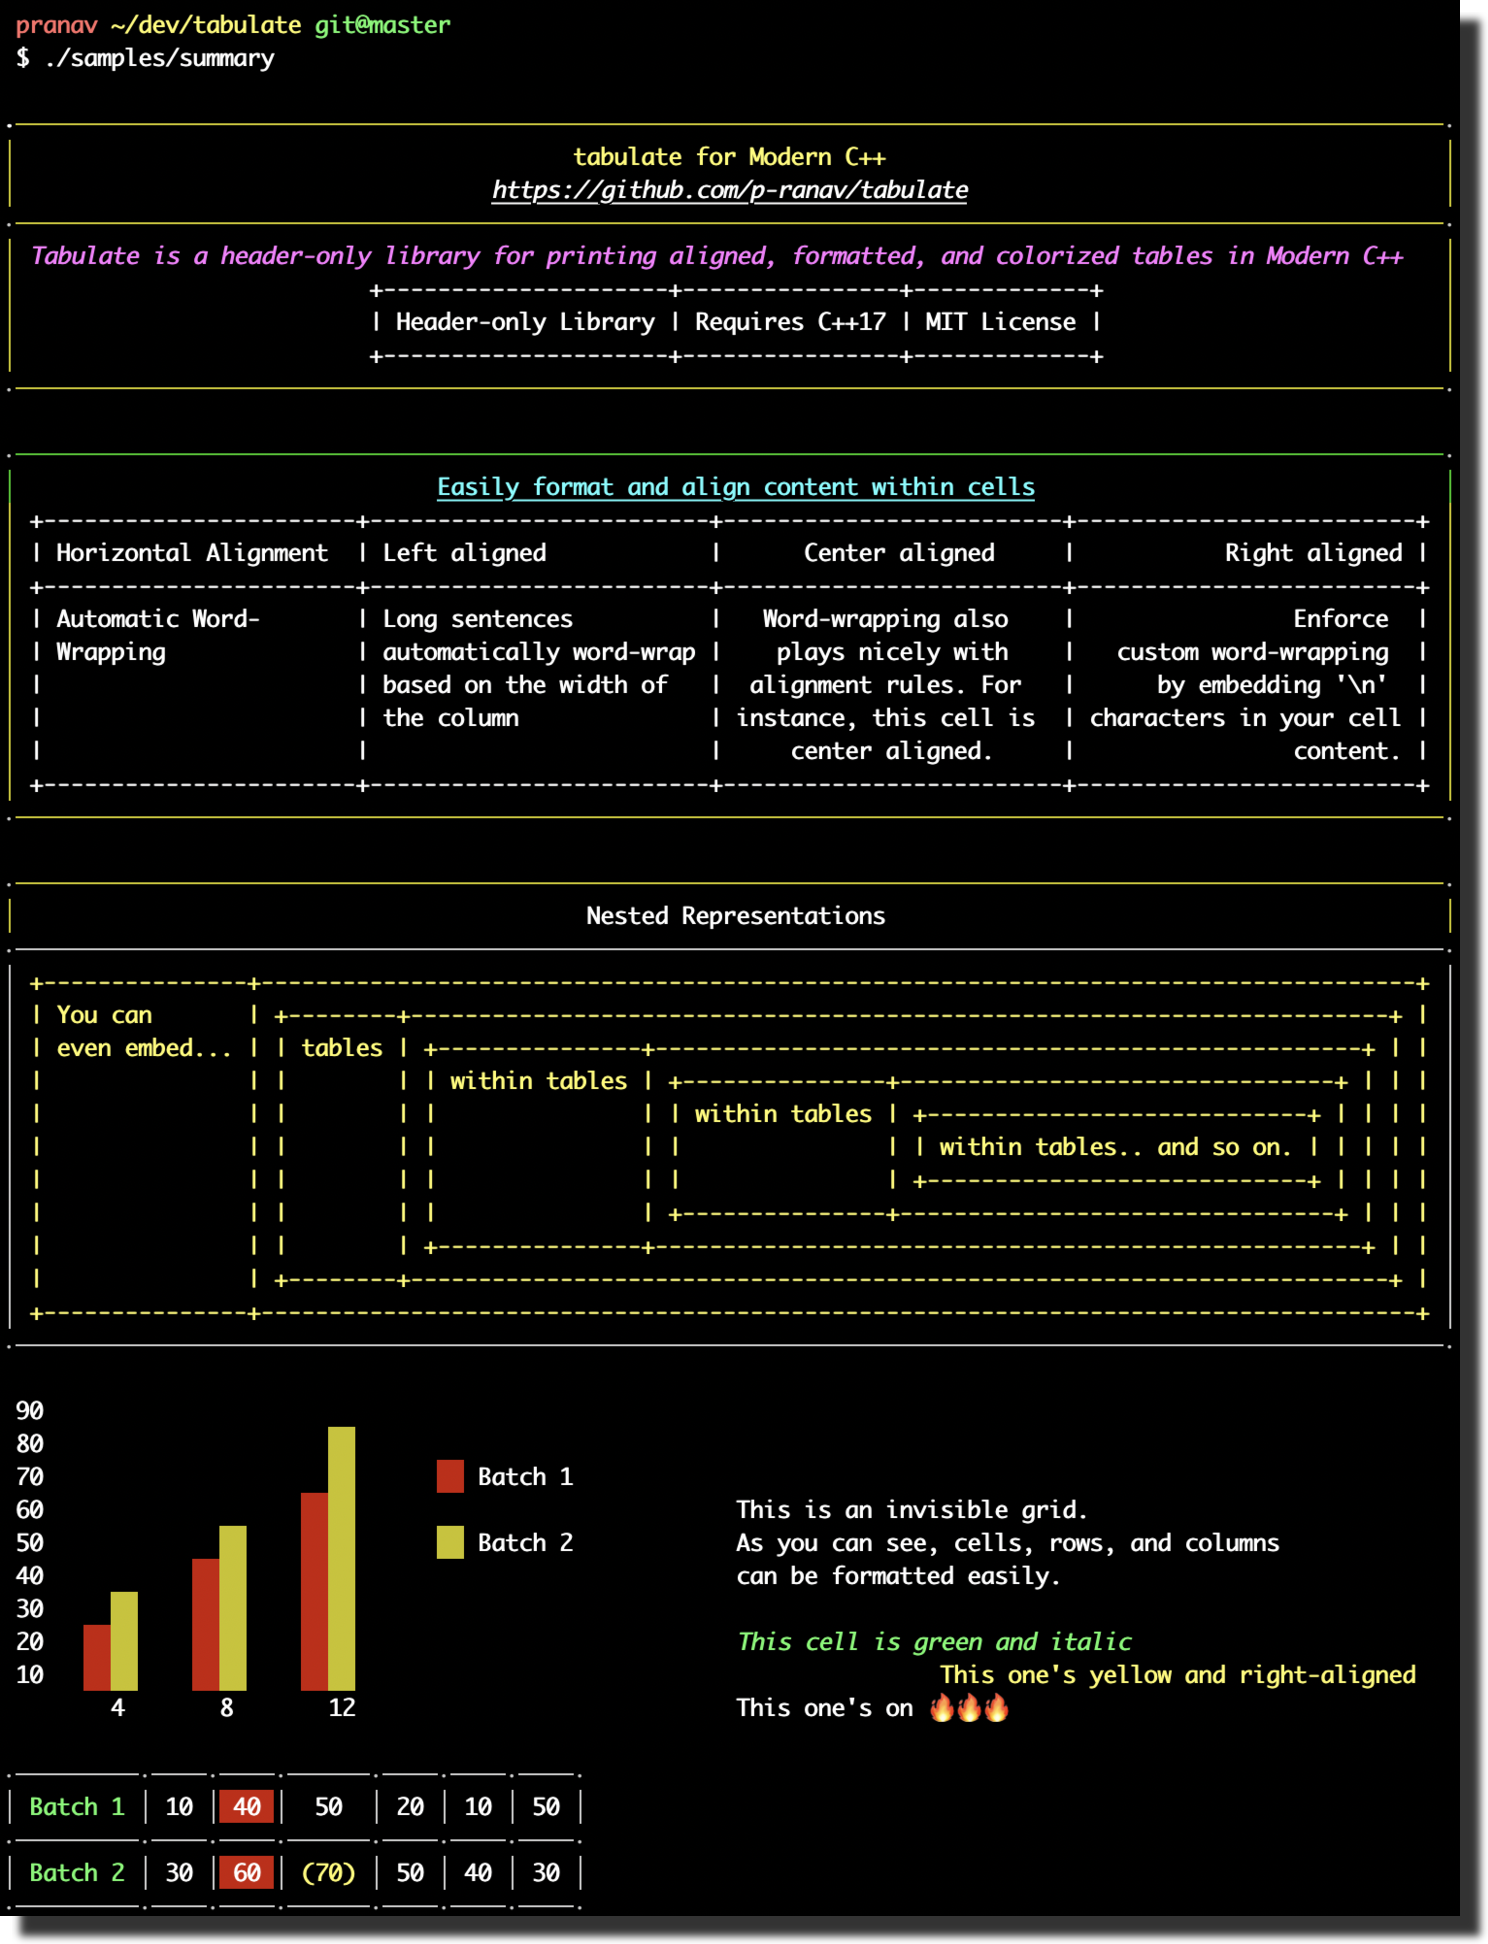
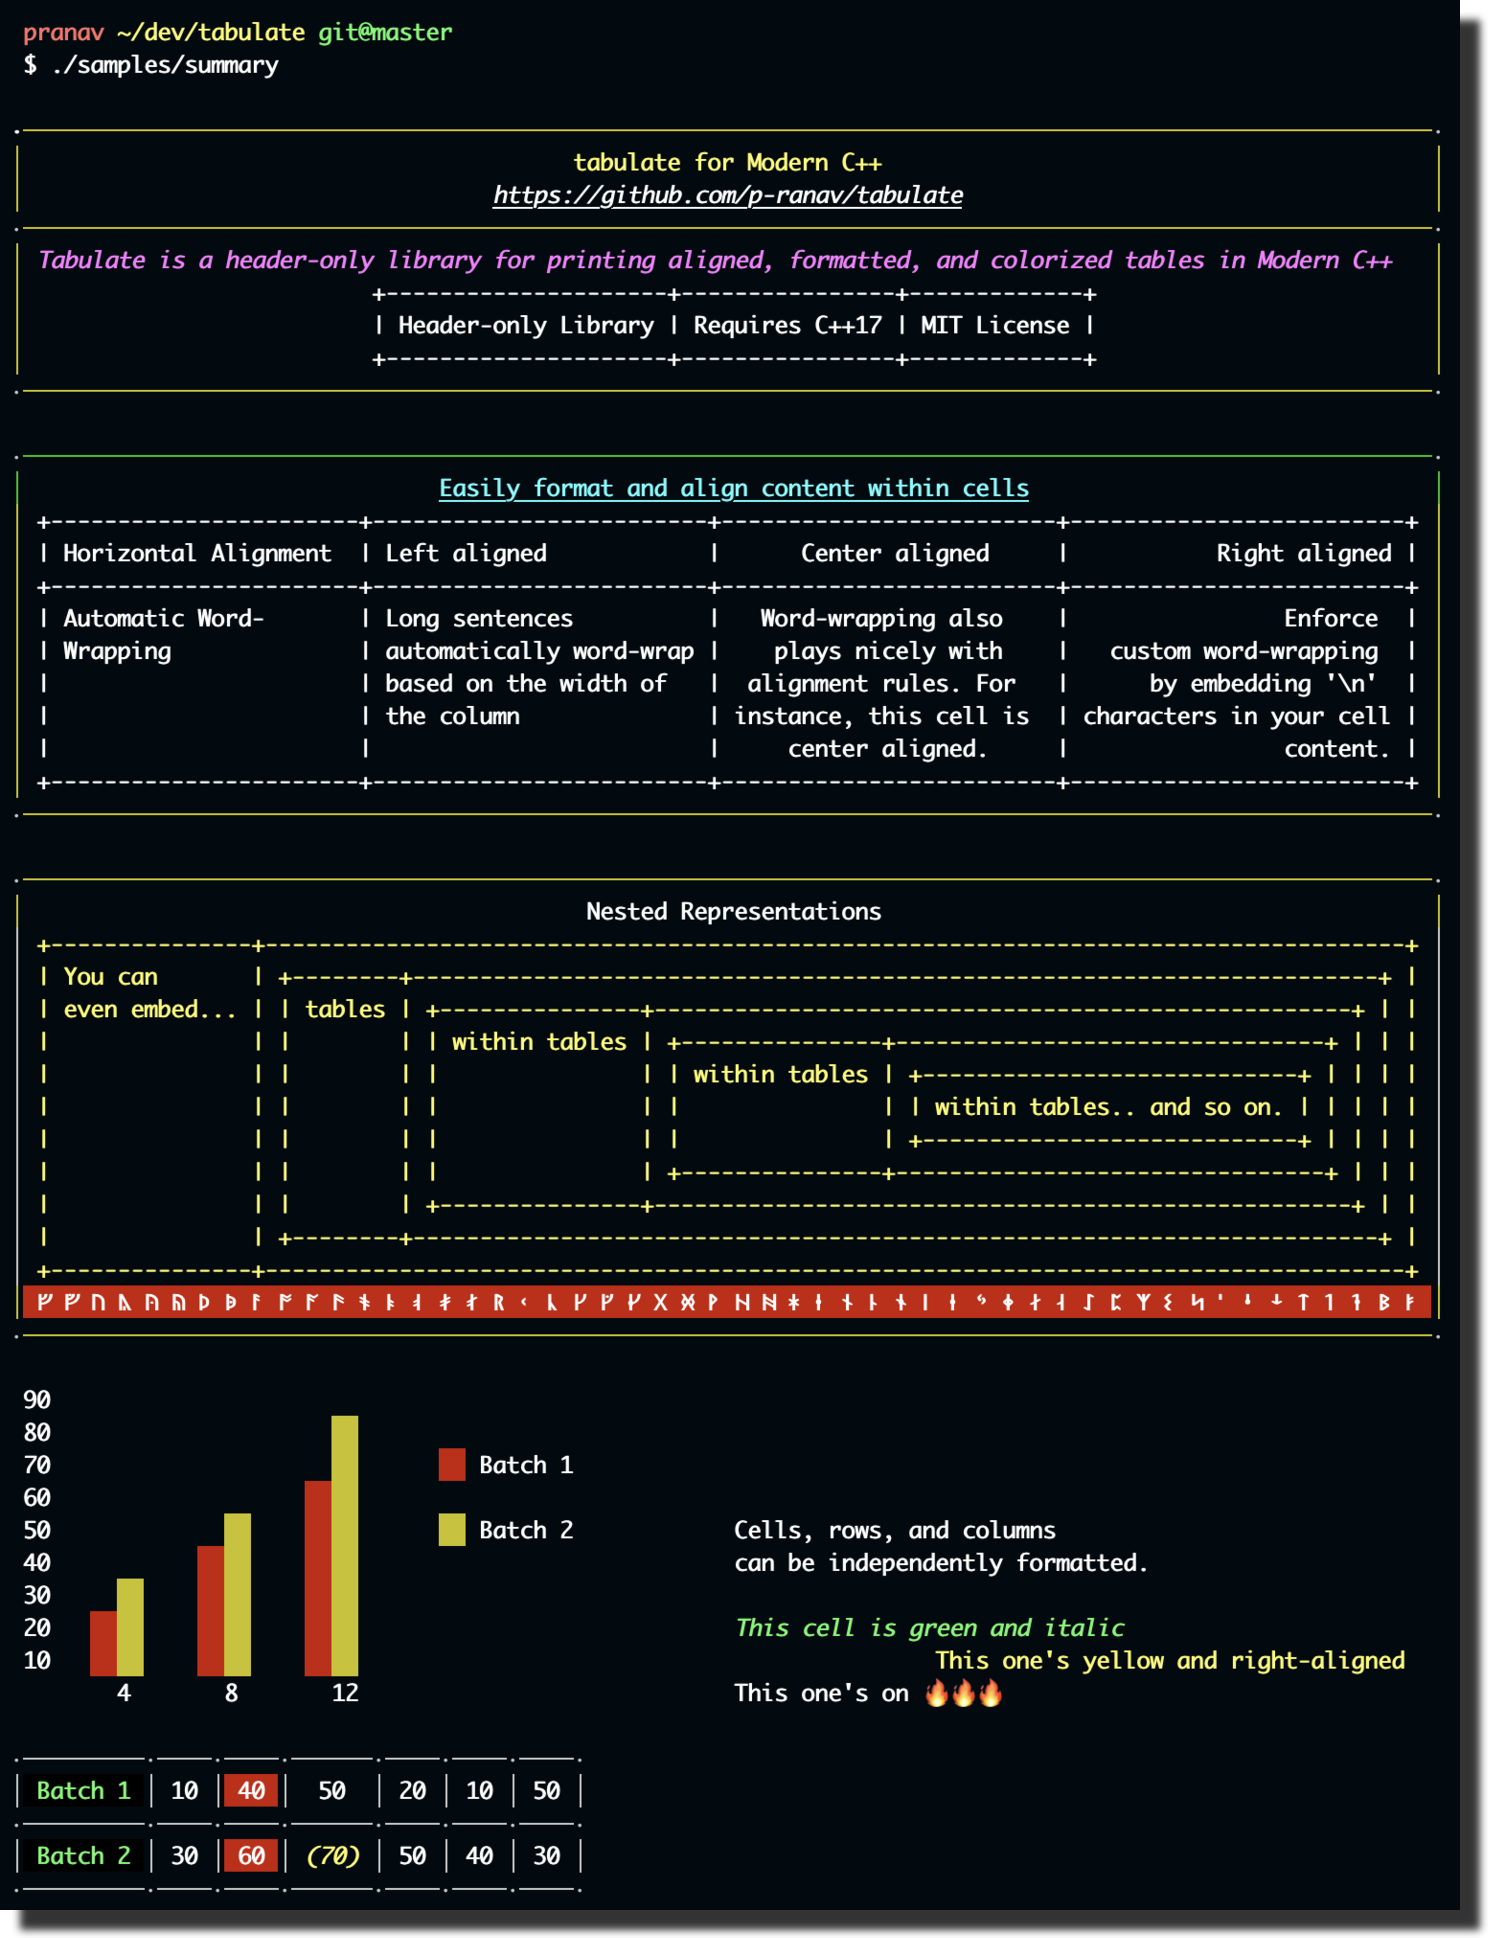
UPdated demo

diff --git a/samples/summary.cpp b/samples/summary.cpp
@@ -89,8 +89,14 @@ int main() {
   readme.add_row({embedded_table});
 
   readme[9].format()
+    .hide_border_top()
     .border_color(Color::white)
     .font_color(Color::yellow);
+
+  readme.add_row({"ᚠ ᚡ ᚢ ᚣ ᚤ ᚥ ᚦ ᚧ ᚨ ᚩ ᚪ ᚫ ᚬ ᚭ ᚮ ᚯ ᚰ ᚱ ᚲ ᚳ ᚴ ᚵ ᚶ ᚷ ᚸ ᚹ ᚺ ᚻ ᚼ ᚽ ᚾ ᚿ ᛀ ᛁ ᛂ ᛃ ᛄ ᛅ ᛆ ᛇ ᛈ ᛉ ᛊ ᛋ ᛌ ᛍ ᛎ ᛏ ᛐ ᛑ ᛒ ᛓ"});
+  readme[10].format()
+    .font_background_color(Color::red)
+    .hide_border_top();
 
   // Print the table
   std::cout << "\n\n";
@@ -211,13 +217,13 @@ int main() {
     .font_background_color(Color::red);
 
   legend[1][3].format()
+    .font_style({FontStyle::italic})
     .font_color(Color::yellow);
 
   chart.column(17).format().width(50);
 
-  chart[3][17].set_text("This is an invisible grid.");
-  chart[4][17].set_text("As you can see, cells, rows, and columns");
-  chart[5][17].set_text("can be formatted easily.");
+  chart[4][17].set_text("Cells, rows, and columns");
+  chart[5][17].set_text("can be independently formatted.");
   chart[7][17].set_text("This cell is green and italic");
   chart[7][17].format()
     .color(Color::green)
